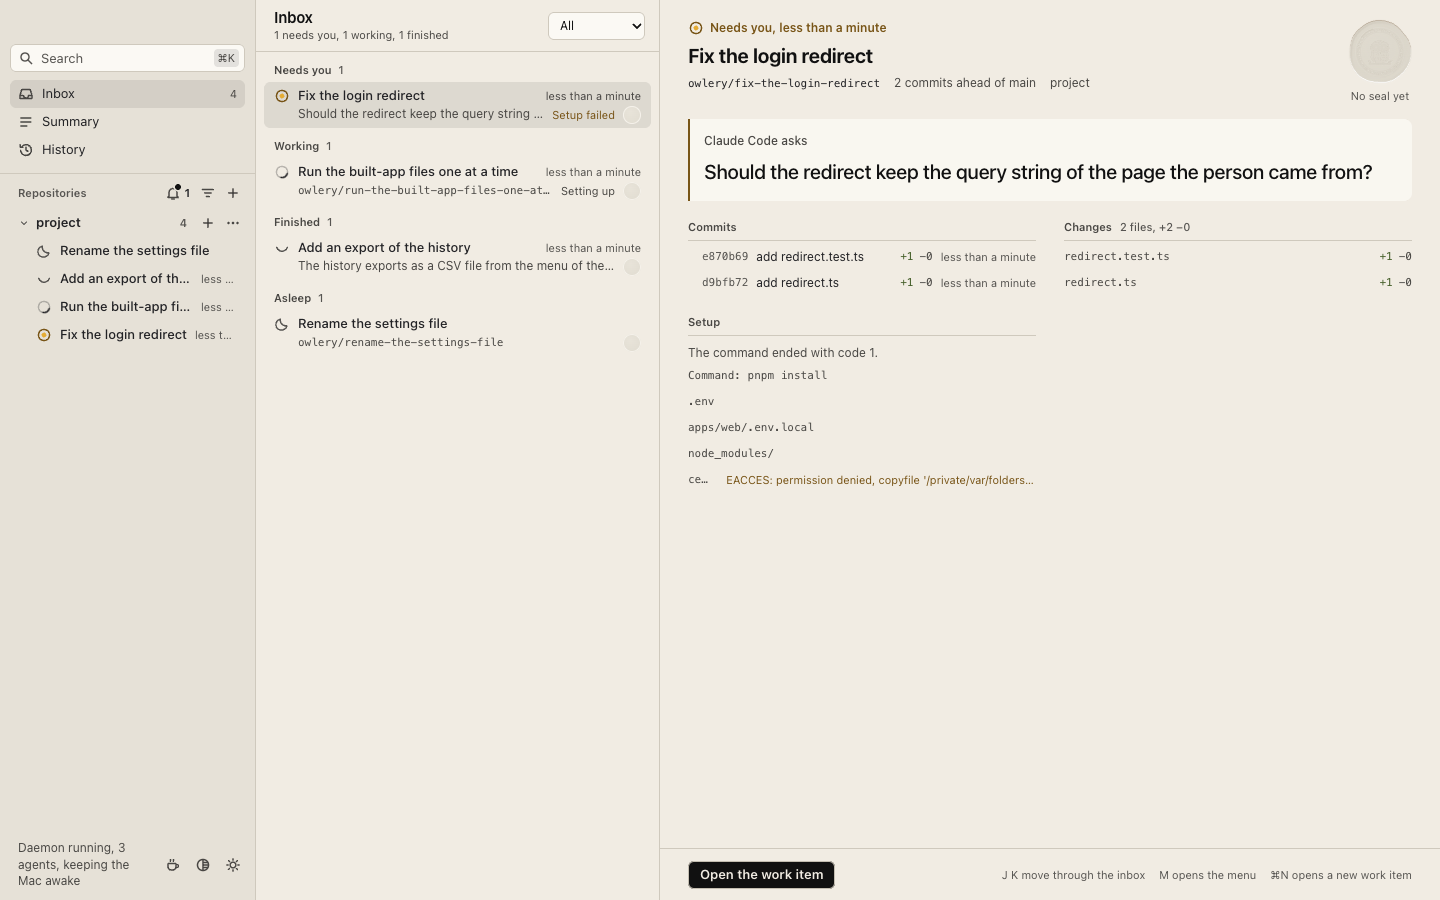
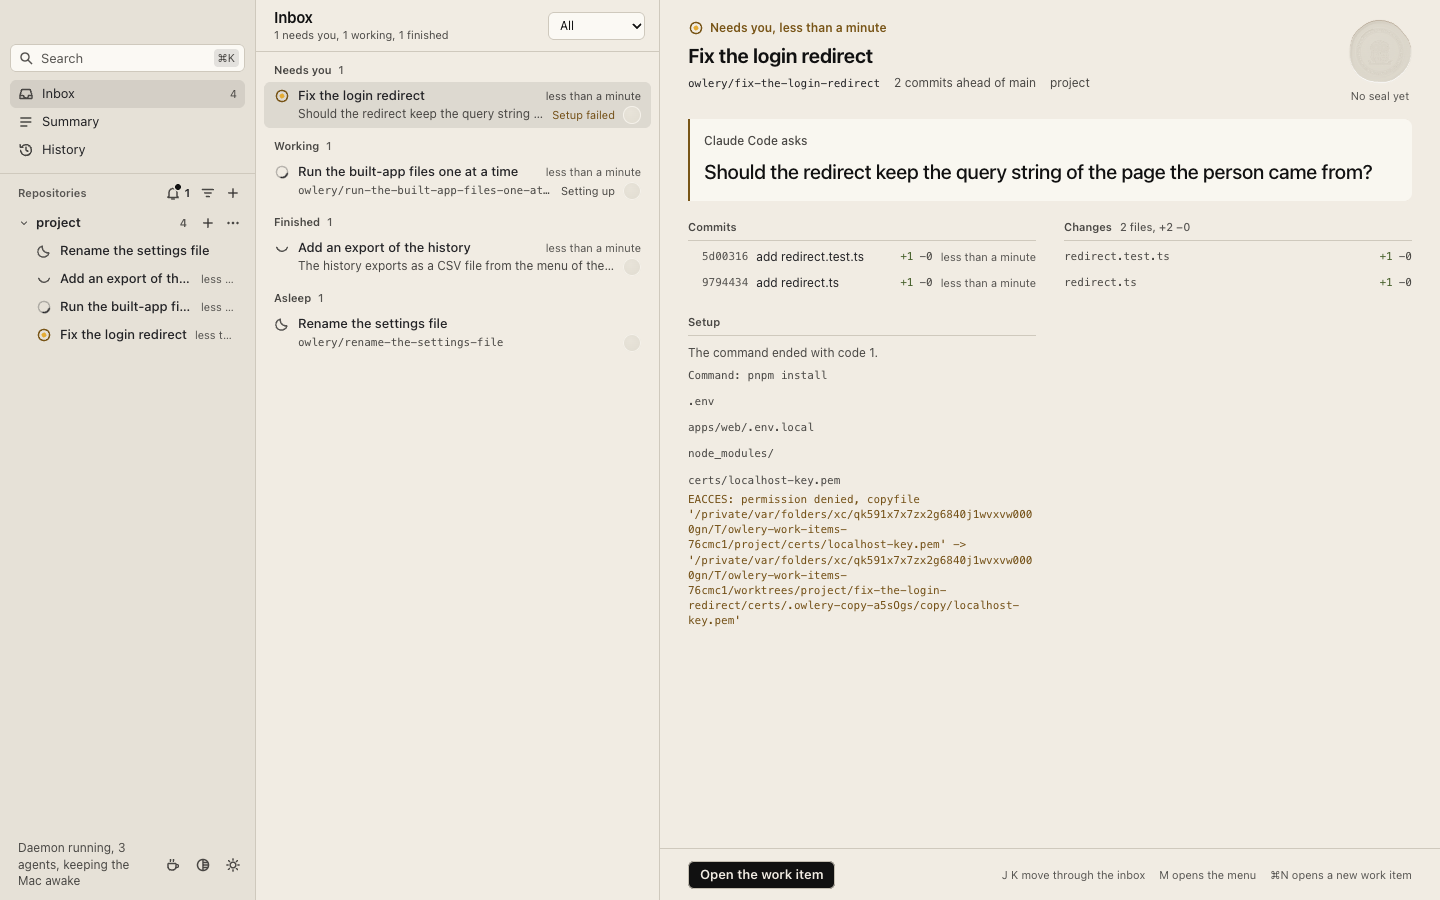
docs: make the worktree setup's screenshots again at the fix of round 6
Made by `pnpm run screenshots` at 59ef441, in the same seven views: the
path the setup could not copy now stands whole with its error under it,
and "Setup failed" on a selected line takes the darkened failure colour
of Night watch light.

Seal-Routing: 1795339001-worktree-setup

Changed region(s): [[0.4688, 0.5289, 0.7188, 0.6844]]

diff --git a/seal/threads/1795339001-worktree-setup/gaps.md b/seal/threads/1795339001-worktree-setup/gaps.md
@@ -18,7 +18,7 @@
 | The style rule of the "Setup" section's command line, `.setup-command` in `apps/desktop/src/renderer/index.html`, which no case reads | the review round after the fix pass, reading the diff |
 | A staging folder whose removal is refused again after its copy's folders got their owner's write bit, as for a file a system flag holds or a folder another user owns. The case "names in a failed path's error the staging folder it could not remove" reaches it only through a stand-in `rm` that refuses the copy's removal with `EPERM`. The read-only folders of the source ran for real | the review round after the fix pass of round 4, reading the diff |
 | `apps/desktop/test/theme-controls.test.ts`, which came with #130's merge. After its `beforeAll` was given the wait for the form's plan, it failed twice in a row on the tree of `a4403ef`, at the case "opens the next page in the saved choice before its module runs, and under Match the system …" (the window did not turn light within 15 s once the emulated system appearance turned), with the next case failing after it on Desk's dark `--radius-line`. It then passed five times in a row on the same tree, a probe's copy of it three times, and once more at `80b8d38`, which adds the setup's two rows to the case that reads each theme's edge under a row of a list of records. The base `b8c1190` passed it three times in the same minutes, and once more with the same wait added. Two Electron apps started at 20:41 from this worktree, pids 48323 and 62468, with their daemons, were running throughout | the orchestrator's broad gate, which runs the file at HEAD and at the base |
-| Whether the screenshots `docs/design.md` *A pull request that changes the window carries its screenshots* asks for read as that document says. They are committed at `14d2d0e` in `screenshots/`, made by `pnpm run screenshots` at `15db0db`, whose run names a setup once two work items stand: Night watch dark and light of the inbox, whose lines say "Setting up" and "Setup failed" and whose preview holds the "Setup" section, of the view, scrolled to its "Setup" section, and of the "New work item" form with its line "Then runs: pnpm install", and Register light of the view, with a rule under each path the setup copied or could not copy. In each, the path the setup could not copy is cut to its first letters, and its why is the error Node gave, which begins `EACCES: permission denied, copyfile '/private/var/folders/…` and is cut too | the review round that reads the screenshots |
+| Whether the screenshots `docs/design.md` *A pull request that changes the window carries its screenshots* asks for read as that document says. They stand in `screenshots/`, made again by `pnpm run screenshots` at `59ef441` in the fix pass of round 6, whose run names a setup once two work items stand: Night watch dark and light of the inbox, whose lines say "Setting up" and "Setup failed" and whose preview holds the "Setup" section, of the view, scrolled to its "Setup" section, and of the "New work item" form with its line "Then runs: pnpm install", and Register light of the view, with a rule under each path the setup copied or could not copy. In each, the path the setup could not copy, `certs/localhost-key.pem`, stands whole, and under it the error Node gave, `EACCES: permission denied, copyfile '…' -> '…'`, stands whole over eight lines in the fixed-width face and the failure's colour. In Night watch light, "Setup failed" stands on the selected line in the darkened `#7f5b00` | the review round that reads the screenshots |
 
 ## Not done
 
